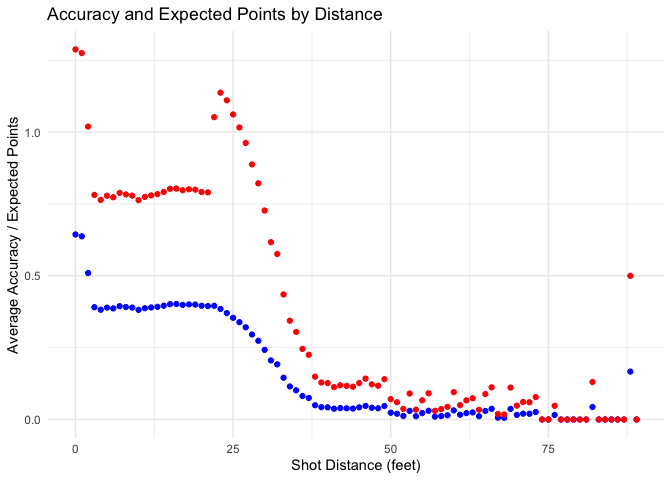
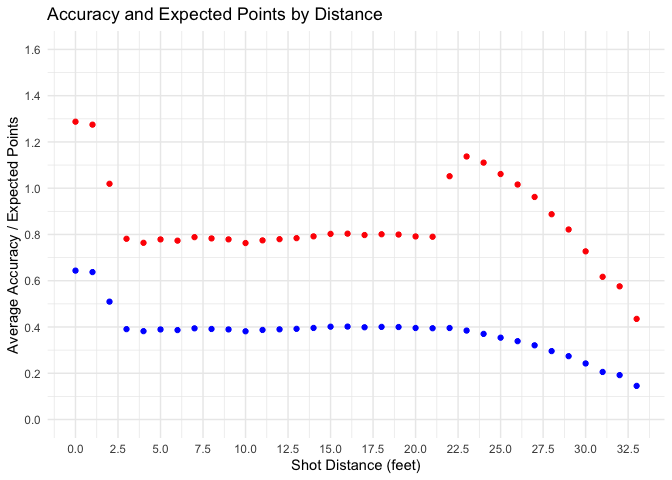
Fixing field-output description in shiny-apps and data function docs

diff --git a/docs/index.html b/docs/index.html
@@ -208,6 +208,8 @@ with a size of approximately <strong>18.8 MB</strong>, enabling efficient loadin
 <span><span class="fu"><a href="https://ggplot2.tidyverse.org/reference/ggplot.html" class="external-link">ggplot</a></span><span class="op">(</span><span class="va">summary_df</span>, <span class="fu"><a href="https://ggplot2.tidyverse.org/reference/aes.html" class="external-link">aes</a></span><span class="op">(</span>x <span class="op">=</span> <span class="va">shot_distance</span><span class="op">)</span><span class="op">)</span> <span class="op">+</span></span>
 <span>  <span class="fu"><a href="https://ggplot2.tidyverse.org/reference/geom_point.html" class="external-link">geom_point</a></span><span class="op">(</span><span class="fu"><a href="https://ggplot2.tidyverse.org/reference/aes.html" class="external-link">aes</a></span><span class="op">(</span>y <span class="op">=</span> <span class="va">accuracy</span><span class="op">)</span>, color <span class="op">=</span> <span class="st">"blue"</span><span class="op">)</span> <span class="op">+</span></span>
 <span>  <span class="fu"><a href="https://ggplot2.tidyverse.org/reference/geom_point.html" class="external-link">geom_point</a></span><span class="op">(</span><span class="fu"><a href="https://ggplot2.tidyverse.org/reference/aes.html" class="external-link">aes</a></span><span class="op">(</span>y <span class="op">=</span> <span class="va">expected_points</span><span class="op">)</span>, color <span class="op">=</span> <span class="st">"red"</span><span class="op">)</span> <span class="op">+</span></span>
+<span>  <span class="fu"><a href="https://ggplot2.tidyverse.org/reference/scale_continuous.html" class="external-link">scale_x_continuous</a></span><span class="op">(</span>limits <span class="op">=</span> <span class="fu"><a href="https://rdrr.io/r/base/c.html" class="external-link">c</a></span><span class="op">(</span><span class="fl">0</span>, <span class="fl">33</span><span class="op">)</span>, breaks <span class="op">=</span> <span class="fu"><a href="https://rdrr.io/r/base/seq.html" class="external-link">seq</a></span><span class="op">(</span><span class="fl">0</span>, <span class="fl">33</span>, by <span class="op">=</span> <span class="fl">2.5</span><span class="op">)</span><span class="op">)</span> <span class="op">+</span></span>
+<span>  <span class="fu"><a href="https://ggplot2.tidyverse.org/reference/scale_continuous.html" class="external-link">scale_y_continuous</a></span><span class="op">(</span>limits <span class="op">=</span> <span class="fu"><a href="https://rdrr.io/r/base/c.html" class="external-link">c</a></span><span class="op">(</span><span class="fl">0</span>, <span class="fl">1.6</span><span class="op">)</span>, breaks <span class="op">=</span> <span class="fu"><a href="https://rdrr.io/r/base/seq.html" class="external-link">seq</a></span><span class="op">(</span><span class="fl">0</span>, <span class="fl">1.6</span>, by <span class="op">=</span> <span class="fl">0.2</span><span class="op">)</span><span class="op">)</span> <span class="op">+</span></span>
 <span>  <span class="fu"><a href="https://ggplot2.tidyverse.org/reference/labs.html" class="external-link">labs</a></span><span class="op">(</span></span>
 <span>    title <span class="op">=</span> <span class="st">"Accuracy and Expected Points by Distance"</span>,</span>
 <span>    x <span class="op">=</span> <span class="st">"Shot Distance (feet)"</span>,</span>
@@ -248,7 +250,6 @@ and interpret the NBA shot data using both static plots and the Shiny app.</p>
 <p>Contributions, feedback, and suggestions are always welcome!<br>
 If you notice a data issue, find a bug, or have an idea for improvement, please open an issue or pull request on the project’s GitHub page:</p>
 <p>🔗 <a href="https://github.com/ETC5523-2025/assignment-4-packages-and-shiny-apps-mozuqi25" class="external-link uri">https://github.com/ETC5523-2025/assignment-4-packages-and-shiny-apps-mozuqi25</a></p>
-<p>Before submitting major changes, kindly discuss them first through the issue tracker to ensure consistency with the package goals.</p>
 </div>
 <div class="section level2">
 <h2 id="license">License<a class="anchor" aria-label="anchor" href="#license"></a>

diff --git a/inst/shiny/www/style.css b/inst/shiny/www/style.css
@@ -1,0 +1,14 @@
+
+/* Change link color */
+a {
+  color: blue;important;important;
+  text-decoration: underline;
+}
+
+/* Hover effect */
+a:hover, a:focus {
+  color: darkblue; important;important;
+  text-decoration: underline;
+}
+
+

diff --git a/README.md b/README.md
@@ -135,6 +135,8 @@ summary_df <- nba_shots %>%
 ggplot(summary_df, aes(x = shot_distance)) +
   geom_point(aes(y = accuracy), color = "blue") +
   geom_point(aes(y = expected_points), color = "red") +
+  scale_x_continuous(limits = c(0, 33), breaks = seq(0, 33, by = 2.5)) +
+  scale_y_continuous(limits = c(0, 1.6), breaks = seq(0, 1.6, by = 0.2)) +
   labs(
     title = "Accuracy and Expected Points by Distance",
     x = "Shot Distance (feet)",
@@ -200,9 +202,6 @@ please open an issue or pull request on the project’s GitHub page:
 
 🔗
 <https://github.com/ETC5523-2025/assignment-4-packages-and-shiny-apps-mozuqi25>
-
-Before submitting major changes, kindly discuss them first through the
-issue tracker to ensure consistency with the package goals.
 
 ## License
 
